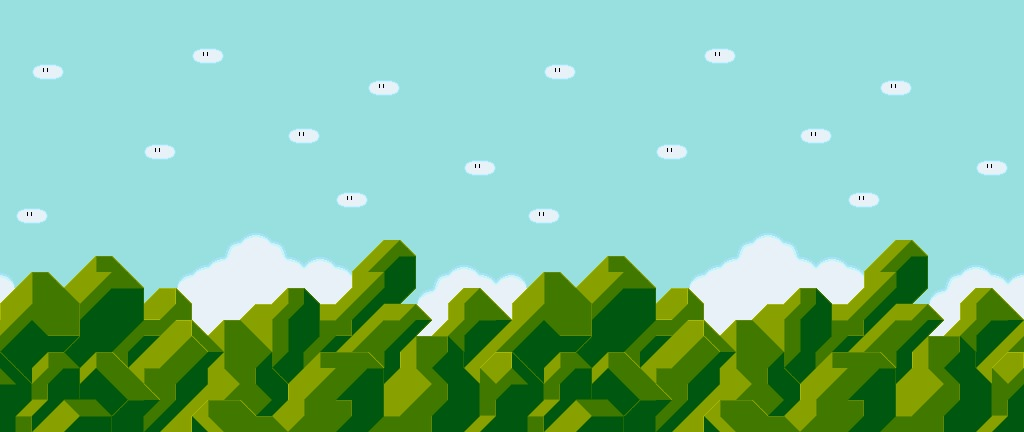
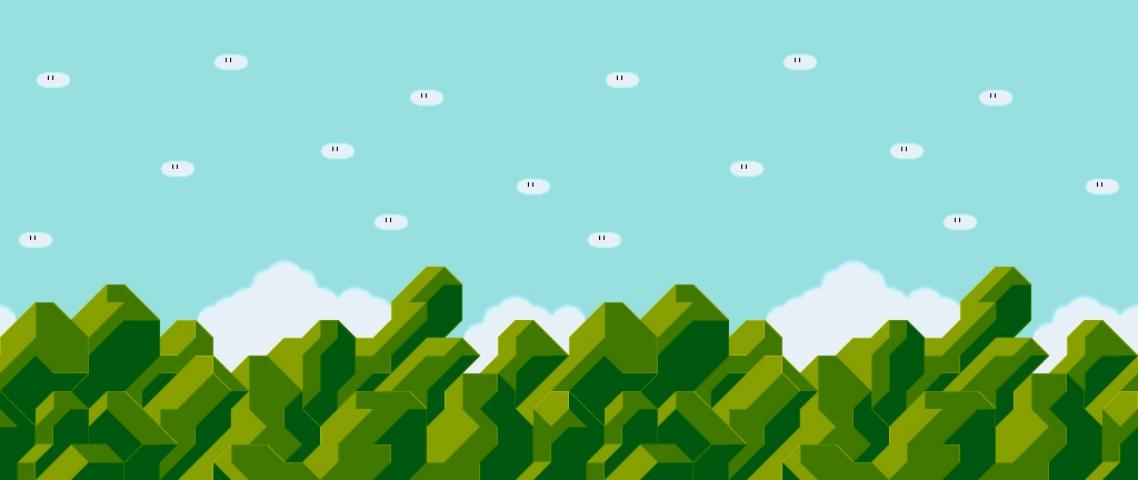
end game e total move eklendi

diff --git a/GameProject/src/main.java b/GameProject/src/main.java
@@ -378,20 +378,25 @@ class endGame extends Stage {
         continueBtn.setFitHeight(75);
         continueBtn.setFitWidth(250);
 
-        Label music = new Label("Nickname: ");
-        music.setFont(new Font("Arial", 20));
-        music.setTextFill(Color.web("#ffffff"));
-        music.setStyle("-fx-effect: dropshadow( one-pass-box , black , 10 , 5.0 , 0 , 0 )");
+        Label nick = new Label("Nickname: ");
+        nick.setFont(new Font("Arial", 20));
+        nick.setTextFill(Color.web("#ffffff"));
+        nick.setStyle("-fx-effect: dropshadow( one-pass-box , black , 10 , 5.0 , 0 , 0 )");
         TextField text = new TextField();
 
         hbox.setSpacing(20);
-        hbox.getChildren().addAll(music, text);
+        hbox.getChildren().addAll(nick, text);
         hbox.setAlignment(Pos.BOTTOM_CENTER);
 
+        Label moveText = new Label("You made : " + gameStage.moveInLevel + " moves." + "(Total:" + main.totalMove + ")");
+        moveText.setFont(new Font("Arial", 26));
+        moveText.setTextFill(Color.web("#ffffff"));
+        moveText.setStyle("-fx-effect: dropshadow( one-pass-box , black , 10 , 5.0 , 0 , 0 )");
+
         vbox.setAlignment(Pos.BOTTOM_CENTER);
-        vbox.setSpacing(40);
+        vbox.setSpacing(17);
         vbox.setPadding(new Insets(30, 30, 60, 30));
-        vbox.getChildren().addAll(hbox, continueBtn);
+        vbox.getChildren().addAll(moveText, hbox, continueBtn);
 
         pane.getChildren().addAll(endOfGame, vbox);
 
@@ -759,7 +764,7 @@ public class main extends Application {
     public static MediaPlayer mainSound;
     public static MediaPlayer buttonSound;
     public static Stage mainStage;
-    
+    //public static ImageView background = new ImageView(new Image("images/bg.gif"));
     @Override
     public void start(Stage primaryStage) {
         mainStage = primaryStage;
@@ -812,7 +817,8 @@ public class main extends Application {
         
         vbox.setAlignment(Pos.BOTTOM_CENTER);
         vbox.getChildren().addAll(startButton, button2, creditsBtn, bottomHBox);
-
+        endGame end = new endGame();
+        end.show();
         root.getChildren().addAll(background, vbox);
 
         primaryStage.setTitle("Game Project");
@@ -838,11 +844,9 @@ public class main extends Application {
             settings.show();
         });
         
-        creditsStage credits = new creditsStage();
-        creditsStage.animation.pause();
         creditsBtn.setOnMouseClicked(e -> {
             main.buttonPlay();
-            creditsStage.animation.playFromStart();
+            creditsStage credits = new creditsStage();
             credits.show();
             primaryStage.close();
         });
@@ -990,7 +994,7 @@ class creditsStage extends Stage {
 
         Pane root = new Pane();
         creditsScene = new Scene(root, 1138, 480);
-        Image backgroundImg = new Image("images/bg.gif");
+        Image backgroundImg = new Image("images/bg.jpg");
         ImageView background = new ImageView(backgroundImg);
         Image creditsImage = new Image("images/credits_text.png");
         credits_text = new ImageView(creditsImage);
